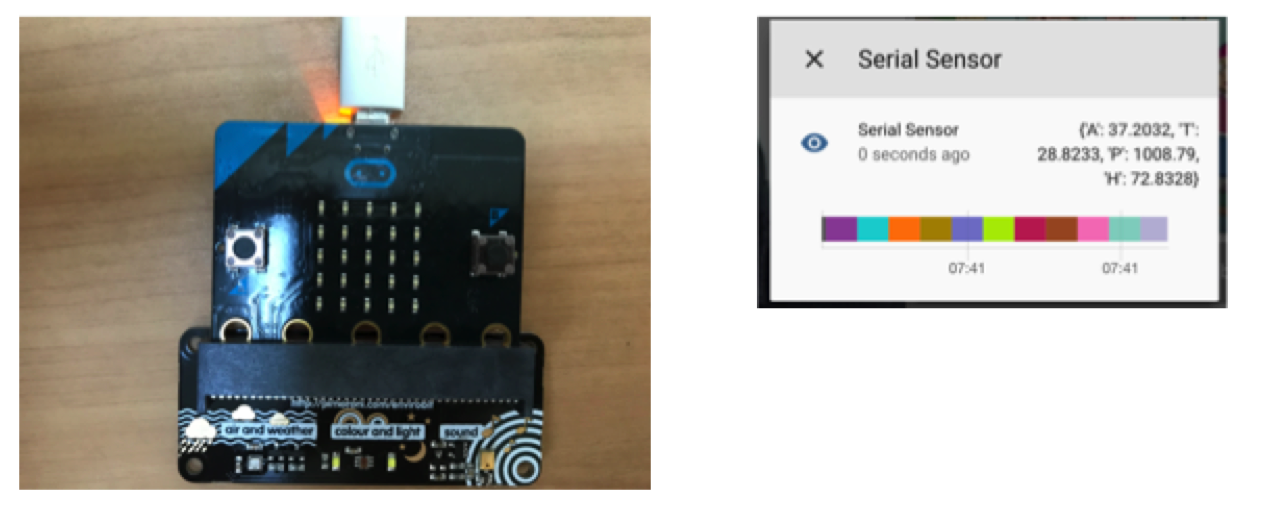
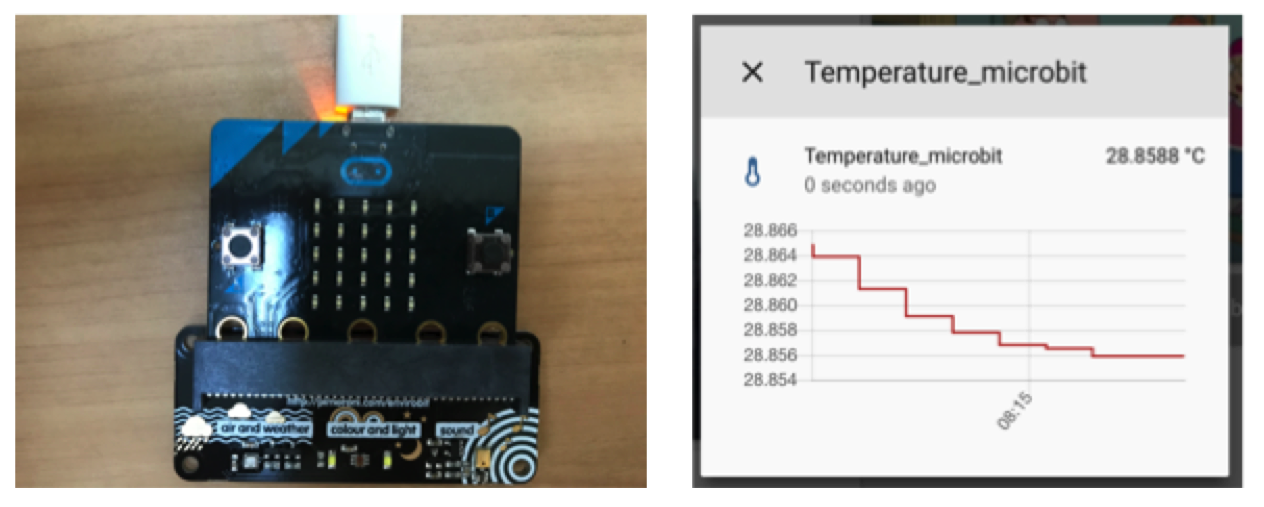
Working

Changed region(s): [[0.0, 0.0296, 0.9873, 0.9763], [0.8639, 0.503, 0.8948, 0.5325], [0.7405, 0.503, 0.7714, 0.5325]]

diff --git a/main.py b/main.py
@@ -135,6 +135,6 @@ if __name__ == "__main__":
     b = bme280()
     while True:
         t, p, h, a = b.all()
-        data = {'T':t, 'P':p, 'H':h, 'A':a}
-        print(data)
+        data_string = """ "T": {t}, "P": {p}, "H": {h}, "A": {a}""".format(t=t,p=p,h=h,a=a)
+        print(""" {""" + data_string + """ } """)
         microbit.sleep(1000)

diff --git a/README.md b/README.md
@@ -13,14 +13,22 @@ screen /dev/cu.usbmodem14342 115200
 Note that if you get any funnry errors when connecting, check that there is not already a screen session open using the Activity monitor, and kill any existing processes. You can also kill a screen session using **ctrl + a + k**.
 
 We can now configure Home-Assistant to display the data feed. I add to my Home-Assistant config:
-```
+```yaml
 sensor:
   - platform: serial
     serial_port: /dev/cu.usbmodem14342
     baudrate: 115200
 ```
 
-We then use template sensors to break out the data fields. 
+We then use template sensors to break out the data fields. Under `sensor`:
+```yaml
+  - platform: template
+    sensors:
+      temperature:
+        friendly_name: Temperature_microbit
+        unit_of_measurement: "°C"
+        value_template: "{{ states.sensor.serial_sensor.attributes.T }}"
+```
 
 <p align="center">
 <img src="https://github.com/robmarkcole/HASS-BBC-envirobit/blob/master/usage.png" width="500">
